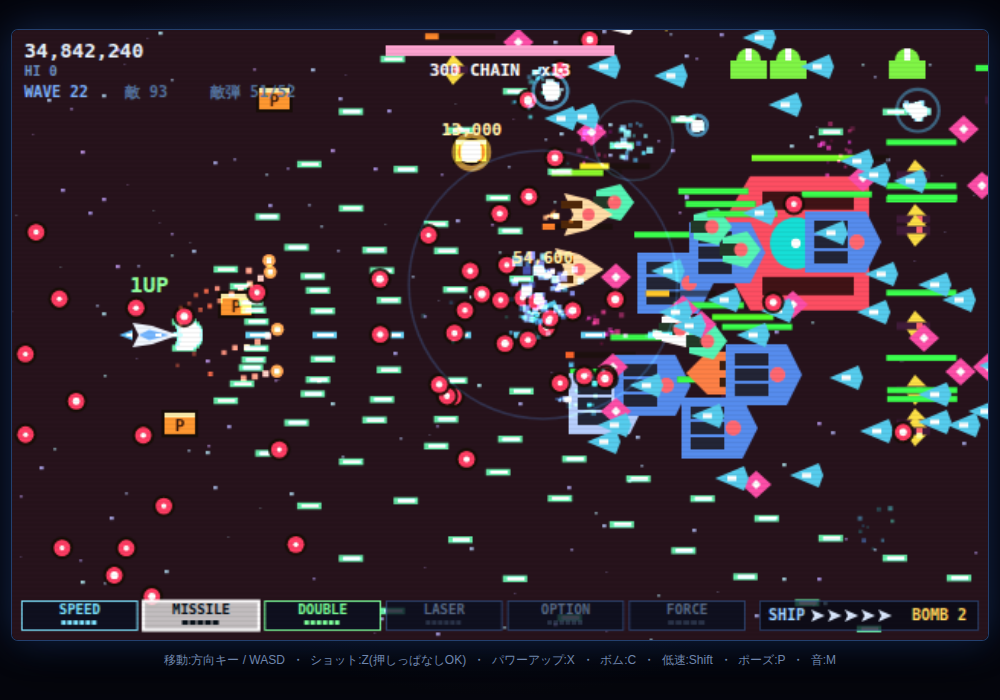
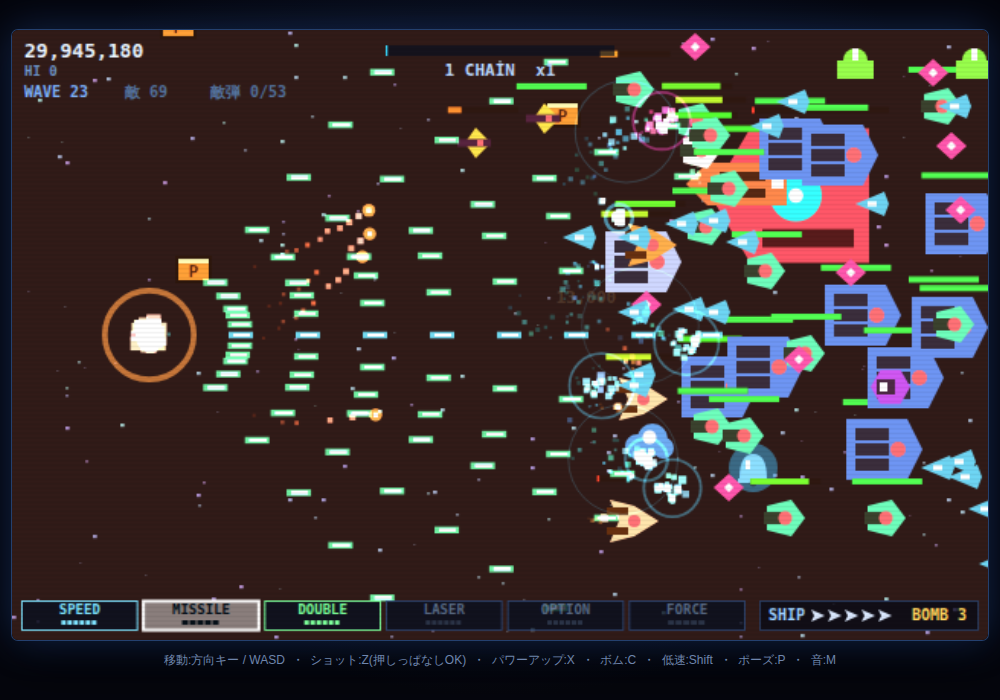
threatFromPower を 9 から 13 に引き上げ
装備の充実度が脅威に効く量を上げ、フル装備時に 13 ウェーブぶん先の
脅威と戦うようにした。

実測（自機が安全に居られる面積 / 自機の列の連続した逃げ道）:
  200秒  77% / 197px  →  74% / 184px
  350秒  72% / 160px  →  68% / 148px

装備の伸びは維持（4分でオプション6基、6分でショット最大）。
弾幕予算の遵守・60fps・難易度の伸びが火力の伸びを超えないことも
引き続き自動テストで確認済み。

Claude-Session: https://claude.ai/code/session_01WDtQyarvxRoKXYqJBC9cW4

diff --git a/js/config.js b/js/config.js
@@ -156,12 +156,12 @@
        脅威を時間だけに紐づけると、火力の伸び（約 19 倍）に対して
        脅威の伸びが小さすぎて、パワーアップするほど楽になってしまう。
        そこで「実効ウェーブ = 経過ウェーブ + 装備の充実度 × この値」とし、
-       フル装備なら 9 ウェーブぶん先の脅威と戦うことにする。
+       フル装備なら 13 ウェーブぶん先の脅威と戦うことにする。
 
        注意：上げすぎると「強くなったら罰される」感覚になる。
        火力の伸びのほうが依然として大きいことが前提の補正値。
        --------------------------------------------------------- */
-    threatFromPower: 9,
+    threatFromPower: 13,
 
     /* ---------- 敵の湧き（ディレクター） ---------- */
     director: {
